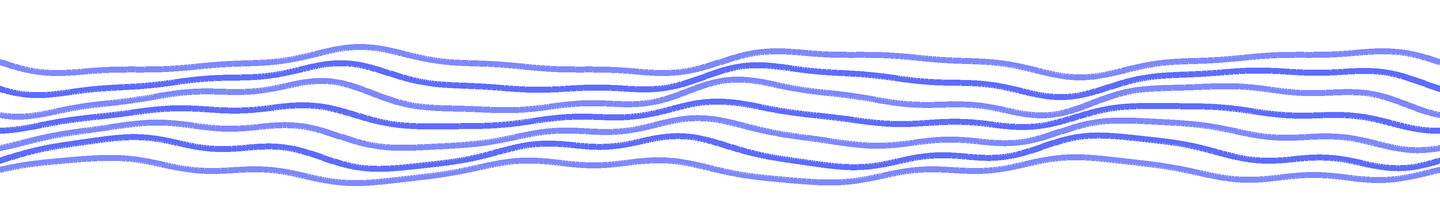
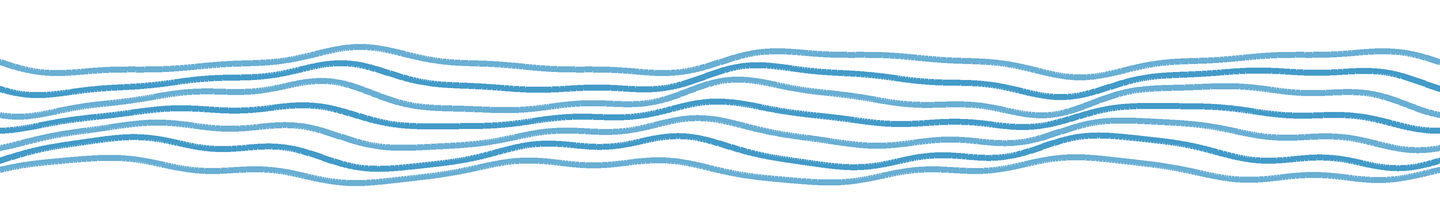
Refina azul e hero em texto (#6)

Changed region(s): [[0.0, 0.2182, 1.0, 0.8455], [0.2188, 0.1909, 0.2812, 0.2455], [0.5, 0.6545, 0.5312, 0.7091]]

diff --git a/static/src/input.css b/static/src/input.css
@@ -9,7 +9,7 @@
   --color-aqua-mint: #E9FFF2;
   --color-aqua-sky: #25C5E9;
   --color-aqua-cyan: #238689;
-  --color-aqua-blue: #2437FF;
+  --color-aqua-blue: #0077B6;
   --color-aqua-ink: #021225;
   --color-aqua-line: #D9ECE5;
   --font-sans: "Sora", "Plus Jakarta Sans", "Inter", system-ui, -apple-system, BlinkMacSystemFont, "Segoe UI", sans-serif;
@@ -258,10 +258,17 @@
     height: auto;
   }
 
-  .aqua-hero-phrase {
-    display: block;
-    width: min(100%, clamp(33rem, 45vw, 52rem));
-    height: auto;
+  .aqua-hero-statement {
+    max-width: min(100%, 52rem);
+    color: #021225;
+    font-size: 5.25rem;
+    font-weight: 950;
+    letter-spacing: 0;
+    line-height: 0.95;
+  }
+
+  .aqua-hero-statement-accent {
+    color: var(--color-aqua-blue);
   }
 
   .aqua-hero-proof {
@@ -404,7 +411,7 @@
   .aqua-number-wall strong {
     display: block;
     margin-top: 0.35rem;
-    color: #2437FF;
+    color: var(--color-aqua-blue);
     font-size: clamp(2.3rem, 5.8vw, 5.4rem);
     font-weight: 950;
     letter-spacing: 0;
@@ -452,7 +459,7 @@
   }
 
   .aqua-flow-line span {
-    color: #2437FF;
+    color: var(--color-aqua-blue);
     font-size: 0.8rem;
     font-weight: 950;
   }
@@ -639,8 +646,10 @@
     width: min(100%, 28rem);
   }
 
-  .aqua-hero-phrase {
-    width: min(100%, 31rem);
+  .aqua-hero-statement {
+    max-width: min(100%, 31rem);
+    font-size: 2.6rem;
+    line-height: 1;
   }
 
   .aqua-hero-proof {

diff --git a/templates/index.html b/templates/index.html
@@ -14,7 +14,9 @@
         <img class="aqua-hero-wordmark mt-8" src="{{ url_for('static', filename='assets/brand/02_logo_wordmark_waves_teal_ia.png') }}" alt="aquaIA" />
         <h1 id="dashboard-title" class="sr-only">aquaIA - Inteligência hídrica para um campus sustentável</h1>
 
-        <img class="aqua-hero-phrase mt-8" src="{{ url_for('static', filename='assets/brand/09_hero_phrase_desperdicio_vira_dado.png') }}" alt="O desperdício invisível vira dado." />
+        <p class="aqua-hero-statement mt-8">
+          O desperdício invisível vira <span class="aqua-hero-statement-accent">dado</span>.
+        </p>
 
         <p class="mt-6 max-w-2xl text-lg leading-8 text-aqua-ink/72">
           Registro participativo, triagem com IA quando disponível, fallback por regras e mapa do campus para priorizar manutenção antes que o vazamento vire custo.

diff --git a/tests/test_frontend_static.py b/tests/test_frontend_static.py
@@ -34,9 +34,10 @@ def test_templates_contain_product_sections_and_brand_assets():
         "assets/brand/06_icon_letter_a_wave.png",
         "assets/brand/07_map_marker_typographic_a.png",
         "assets/brand/08_hero_title_inteligencia_hidrica.png",
-        "assets/brand/09_hero_phrase_desperdicio_vira_dado.png",
         "dist/output.css",
         "dist/app.js",
+        "O desperdício invisível",
+        "aqua-hero-statement",
         "Impacto financeiro real",
         "R$ 8,36 mi",
         "R$ 7,92 mi",
@@ -52,6 +53,7 @@ def test_templates_contain_product_sections_and_brand_assets():
     combined = f"{base}\n{html}"
     for text in required_text:
         assert text in combined
+    assert "assets/brand/09_hero_phrase_desperdicio_vira_dado.png" not in combined
     assert "assets/brand/03_logo_wordmark_clean_navbar.png" not in combined
     assert "assets/brand/05_logo_wordmark_stacked_editorial.png" not in combined
 
@@ -99,6 +101,7 @@ def test_stimulus_controllers_and_targets_are_wired():
 
 def test_tailwind_output_contains_project_components():
     css = read("static/dist/output.css")
+    source_css = read("static/src/input.css")
     assert ".aqua-card" in css
     assert ".aqua-panel" in css
     assert ".aqua-screen" in css
@@ -108,6 +111,8 @@ def test_tailwind_output_contains_project_components():
     assert ".aqua-wave-band" in css
     assert ".aqua-home-stats" in css
     assert ".aqua-hero-editorial" in css
+    assert ".aqua-hero-statement" in css
+    assert ".aqua-hero-statement-accent" in css
     assert ".aqua-number-wall" in css
     assert ".aqua-metric" in css
     assert "repeat-x" in css
@@ -115,8 +120,22 @@ def test_tailwind_output_contains_project_components():
     assert "wave-loop-teal" in css
     assert "10_wave_divider_blue" not in css
     assert "11_wave_divider_teal" not in css
-    assert "#FFFDF2" in read("static/src/input.css")
-    assert "linear-gradient(180deg, #f8fff9" not in read("static/src/input.css")
+    assert "#0077b6" in css.lower()
+    assert "#2437ff" not in css.lower()
+    assert "#FFFDF2" in source_css
+    assert "#0077B6" in source_css
+    assert "#2437FF" not in source_css
+    assert "linear-gradient(180deg, #f8fff9" not in source_css
+
+
+def test_interface_design_system_documents_visual_rules():
+    system = ROOT / ".interface-design" / "system.md"
+    assert system.exists()
+    text = system.read_text(encoding="utf-8")
+    assert "02_logo_wordmark_waves_teal_ia.png" in text
+    assert "#0077B6" in text
+    assert "#2437FF" in text
+    assert "wave-loop-blue.png" in text
 
 
 def test_wave_loop_assets_are_transparent_rgba_tiles():

diff --git a/.interface-design/system.md b/.interface-design/system.md
@@ -1,0 +1,45 @@
+# AquaIA UFMS - Sistema Visual
+
+## Direcao
+
+O AquaIA UFMS deve parecer um produto institucional, editorial e funcional para registro, triagem e acompanhamento de desperdicio de agua no campus. A interface prioriza leitura rapida, confianca e clareza operacional.
+
+## Logo Oficial
+
+Use `static/assets/brand/02_logo_wordmark_waves_teal_ia.png` como wordmark oficial em toda a interface.
+
+Nao use multiplas logos na mesma tela quando elas competirem pela hierarquia visual. A logo pode aparecer na navbar e como assinatura principal do hero; evite repetir outras variantes sem funcao clara.
+
+## Paleta Oficial
+
+- Fundo principal: `#FFFDF2`
+- Superficie: `#FFFFFF`
+- Texto principal: `#021225`
+- Teal institucional: `#238689`
+- Aqua IA: `#25C5E9`
+- Azul editorial: `#0077B6`
+- Linha suave: `#D9ECE5`
+- Verde de apoio: `#E9FFF2`
+- Alerta: `#F59E0B`
+- Urgente: `#E5483F`
+
+Regra: nao usar `#2437FF`. Destaques editoriais, numeros grandes, palavra "dado", fluxo operacional e waves fortes devem usar `#0077B6`.
+
+## Waves
+
+Use apenas os assets seamless:
+
+- `static/assets/brand/wave-loop-blue.png`
+- `static/assets/brand/wave-loop-teal.png`
+
+As waves devem ter fundo transparente, repetir no eixo X com `background-repeat: repeat-x`, usar `background-position: left center` e `background-size: 1440px auto` ou tamanho fixo equivalente. Nao usar divisores antigos com corte seco.
+
+## Background
+
+O fundo principal do app e solido em `#FFFDF2`. Evite gradientes verdes no `body` ou em grandes areas de pagina.
+
+## Componentes
+
+Evite caixas flutuantes decorativas sem funcao. Cards, paineis e superficies devem existir para agrupamento funcional, leitura de dados, formulario, mapa ou listas.
+
+Textos grandes editoriais devem ser HTML real sempre que possivel. PNGs tipograficos so devem ser usados quando forem assinatura de marca ou composicao aprovada que nao precise escalar como texto.